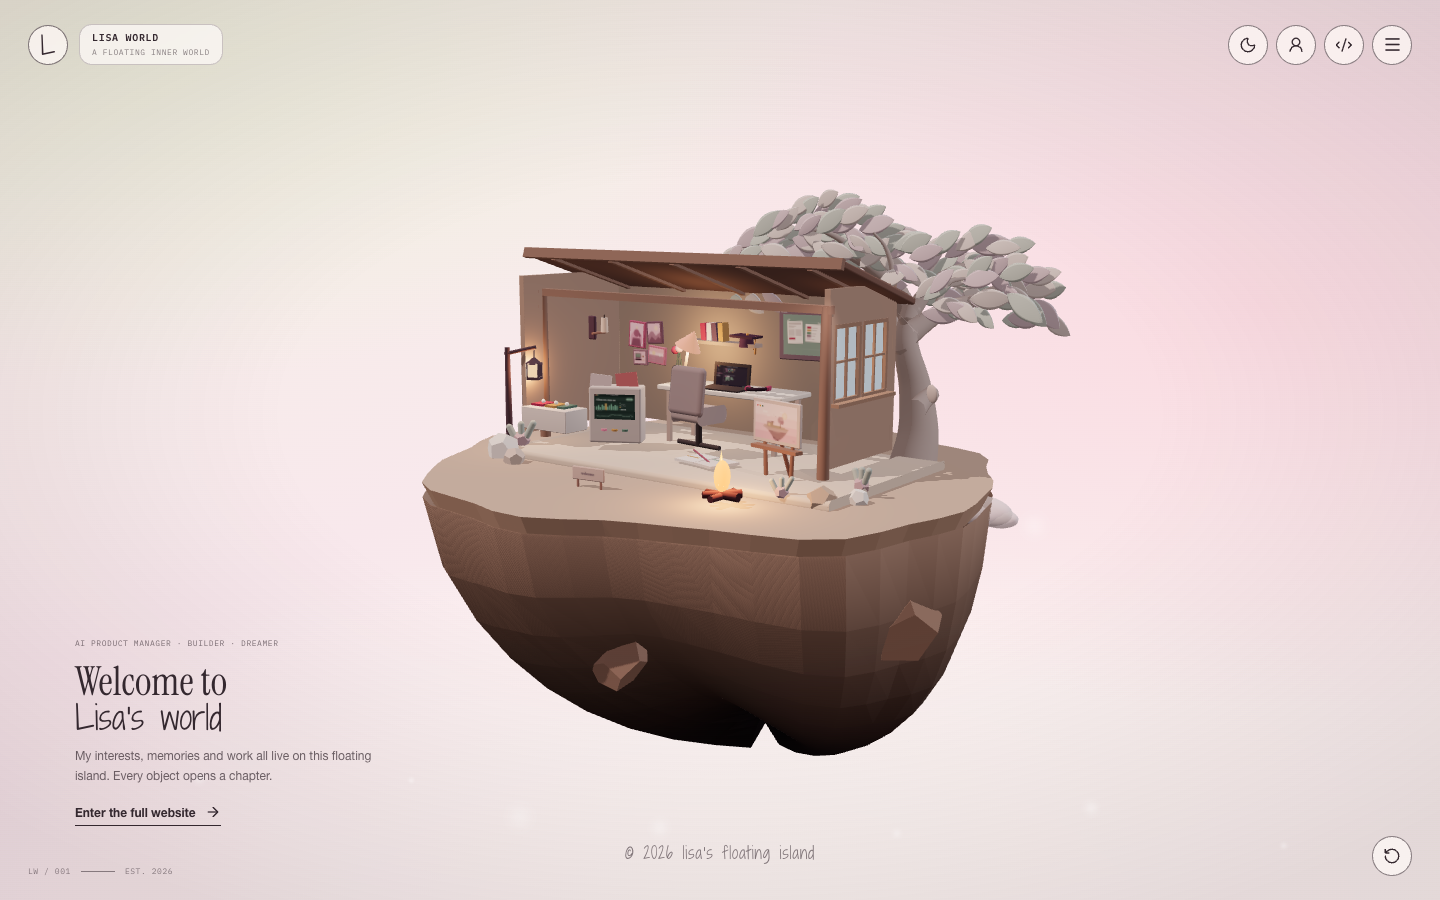
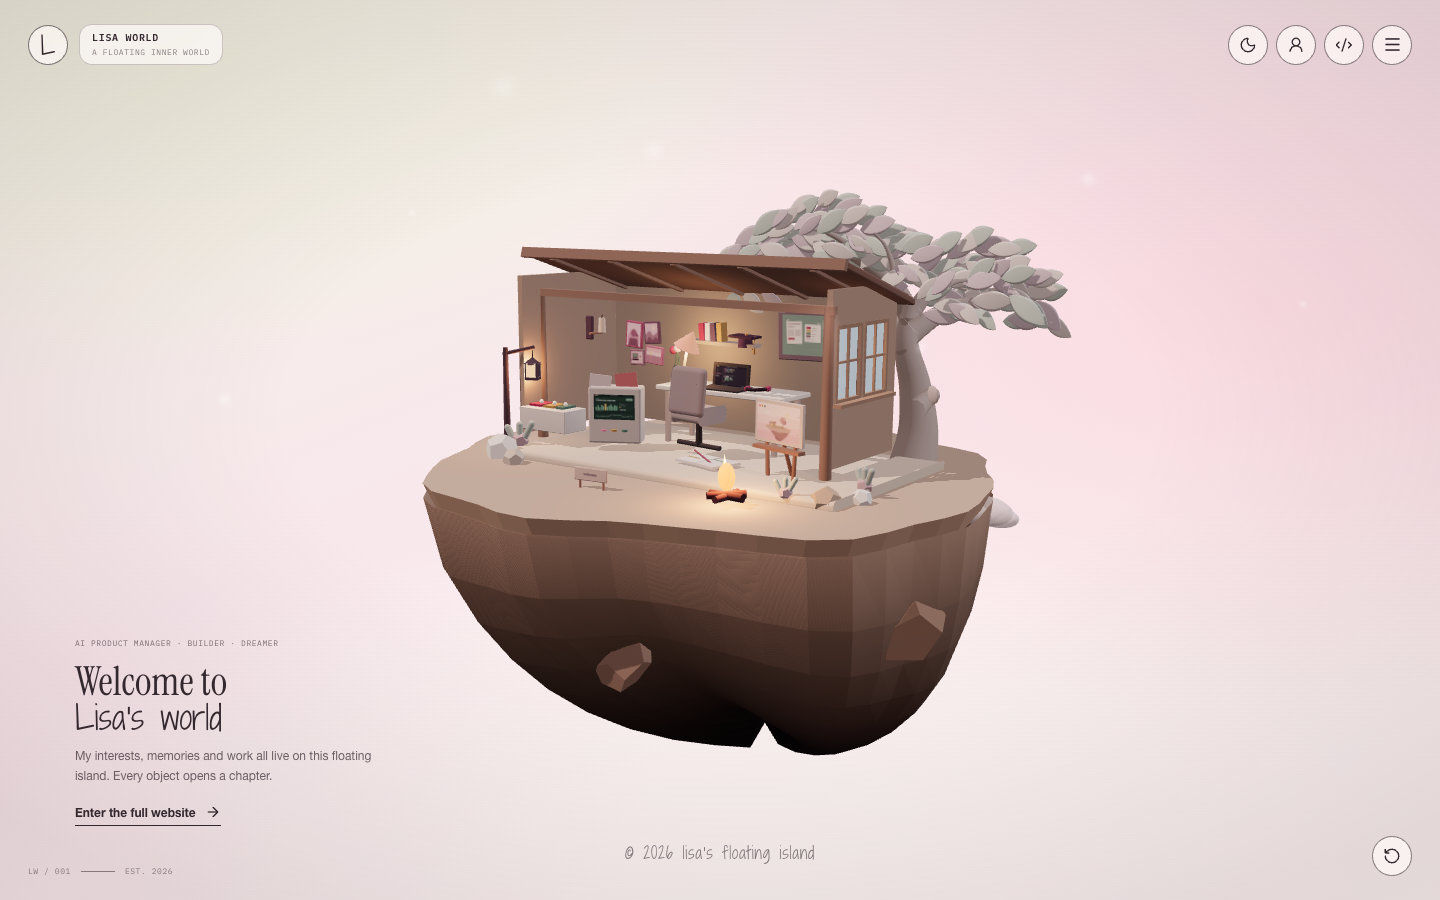
perf: stop paying six shadow passes for one lamp
The night theme cost 1.8x the day theme on the same machine, and measuring it
showed why: 8 weighted shadow passes against day's 2, 704 draw calls against
456, 518k drawn triangles a frame against 227k. Six of those eight passes came
from one word — castShadow on a point light, which renders the whole scene once
per cube face.

Deleting the shadow was tried first and rejected on the screenshots: the room
went flat, the chair and the sketchbook stopped touching the floor. So the lamp
is now two lights doing one job each — an unshadowed point light for the glow on
the walls and ceiling, and a single downward spot for the shadow. Night comes to
3 passes, 519 calls, 275k triangles, and the two night screenshots are hard to
tell apart.

The key light overhead was left alone on purpose. Removing its shadow saves one
more pass, but the same A/B showed the daylight interior flattening, and 456
draw calls was never the problem — the pathological case was the point light,
and it is fixed.

* __ISLAND_STATS__ now reports drawCalls, drawnTriangles, programs, textures,
  geometries and shadowPasses, the last weighted by kind: one for a directional
  or spot light, six for a point light. The suite asserts 4 / 620 / 340k per
  device per theme. Frame rate is deliberately not asserted — under software
  rasterisation it measures the harness, and the same build read 157ms and
  768ms depending on machine load.
* Control experiment: putting castShadow back on the lamp takes the scene to
[…]

diff --git a/src/scene/World.tsx b/src/scene/World.tsx
@@ -123,6 +123,7 @@ function SceneProbes() {
   const scene = useThree((state) => state.scene)
   const camera = useThree((state) => state.camera)
   const size = useThree((state) => state.size)
+  const gl = useThree((state) => state.gl)
   const theme = useWorldStore((state) => state.theme)
   const silhouette = useWorldStore((state) => state.silhouette)
 
@@ -339,9 +340,23 @@ function SceneProbes() {
       let lights = 0
       let screens = 0
       let artworks = 0
+      let shadowCasters = 0
 
       scene.traverse((object) => {
-        if ((object as Light).isLight) lights += 1
+        if ((object as Light).isLight) {
+          lights += 1
+          /*
+           * Shadow-casting lights are the expensive kind, and they are not
+           * expensive equally: a directional or spot light renders the scene once
+           * more per frame, and a point light renders it *six* times, once per
+           * cube face. Counted here because it is the one cost that can grow by a
+           * single prop nobody reads twice, and it does not show up in a mesh or
+           * triangle count at all.
+           */
+          if ((object as Light).castShadow) {
+            shadowCasters += (object as Light).type === 'PointLight' ? 6 : 1
+          }
+        }
         const mesh = object as Mesh
         if (!mesh.isMesh || !mesh.geometry) return
         meshes += 1
@@ -365,11 +380,28 @@ function SceneProbes() {
         artworks,
         theme,
         silhouette,
+        /*
+         * What the last frame actually cost, straight from the renderer.
+         *
+         * Mesh and triangle counts say what is *in* the scene; these say what is
+         * being *drawn*, which is a different number entirely once shadow maps,
+         * a contact-shadow pass and four particle systems are in play. Reported
+         * because a perf regression here is invisible in a screenshot and the
+         * frame rate a harness measures under software rasterisation is a fact
+         * about the harness, not the site — draw calls are the same number on
+         * every machine.
+         */
+        drawCalls: gl.info.render.calls,
+        drawnTriangles: gl.info.render.triangles,
+        programs: gl.info.programs?.length ?? 0,
+        textures: gl.info.memory.textures,
+        geometries: gl.info.memory.geometries,
+        shadowPasses: shadowCasters,
       }
     }, 450)
 
     return () => window.clearTimeout(timer)
-  }, [scene, theme, silhouette])
+  }, [scene, gl, theme, silhouette])
 
   return null
 }
@@ -1013,15 +1045,46 @@ export function World({
           />
         </>
       )}
+      {/*
+          The lamp above the desk, split into the part that lights the room and
+          the part that grounds the furniture.
+
+          It used to be one shadow-casting point light, which is the single most
+          expensive prop in the scene: a point light renders the whole scene once
+          per cube face, so that one word cost six extra full-scene passes and
+          took the night theme from 2 shadow passes to 8, 456 draw calls to 704,
+          and 227k drawn triangles a frame to 518k — 1.8x the frame time on the
+          same machine, for one lamp.
+
+          Removing the shadow outright was tried first and the room went flat:
+          the chair and the sketchbook stopped touching the floor. So the light
+          keeps its omnidirectional glow on the walls and ceiling and stops
+          casting, and a single downward spot does the shadow for one pass. Same
+          two jobs, a sixth of the cost.
+      */}
       {isNight && (
-        <pointLight
-          castShadow
-          position={[-1.1, 3.2, -0.75]}
-          intensity={18}
-          distance={7}
-          decay={2}
-          color="#ffc27d"
-        />
+        <>
+          <pointLight
+            position={[-1.1, 3.2, -0.75]}
+            intensity={17}
+            distance={7}
+            decay={2}
+            color="#ffc27d"
+          />
+          <spotLight
+            castShadow
+            position={[-1.1, 3.3, -0.75]}
+            angle={1.02}
+            penumbra={0.92}
+            intensity={9}
+            distance={7.5}
+            decay={2}
+            color="#ffc27d"
+            shadow-mapSize={[1024, 1024]}
+            shadow-camera-near={0.4}
+            shadow-camera-far={8}
+          />
+        </>
       )}
       {showParticles && (
         <Sparkles

diff --git a/src/scene/stats.ts b/src/scene/stats.ts
@@ -21,6 +21,30 @@ export type IslandStats = {
   theme: 'day' | 'night'
   /** Whether silhouette mode was flattening the scene when measured. */
   silhouette: boolean
+  /**
+   * Draw calls in the last rendered frame.
+   *
+   * The counts above describe what is in the scene; this describes what it costs
+   * to show it, which is a different number once shadow maps, a contact-shadow
+   * pass and four particle systems are involved. It is also the honest thing to
+   * assert: the frame rate a harness measures under software rasterisation is a
+   * fact about the harness, while a draw call is the same number everywhere.
+   */
+  drawCalls: number
+  /** Triangles actually submitted last frame, shadow and helper passes included. */
+  drawnTriangles: number
+  /** Compiled shader programs; each one is a compile stall the first time it runs. */
+  programs: number
+  /** Live GPU textures and geometries, as the renderer counts them. */
+  textures: number
+  geometries: number
+  /**
+   * Extra full-scene passes the shadow maps cost, weighted by kind: a directional
+   * or spot light is one, a point light is six — one per cube face. A single
+   * `castShadow` prop is the cheapest way to make a scene several times more
+   * expensive, and it changes no other number here.
+   */
+  shadowPasses: number
 }
 
 export type FocusProbe = {

diff --git a/qa/verify.py b/qa/verify.py
@@ -67,6 +67,23 @@ MIN_LABEL_HEIGHT = 16
 # both given a hit area the lowest score in the scene is the easel at 0.70.
 MIN_OBJECT_CORE = 0.6
 
+# What a frame is allowed to cost, in numbers that mean the same thing on every
+# machine. Frame rate here does not: under software rasterisation it measures the
+# harness, and the same build reads 157ms and 768ms depending on what else is
+# running.
+#
+# The night theme used to spend 8 full-scene shadow passes, 704 draw calls and
+# 518k drawn triangles a frame, against day's 2 / 456 / 227k — because one word,
+# `castShadow` on a point light, renders the whole scene once per cube face. Six
+# passes for one lamp. Splitting it into an unshadowed point light for the glow
+# and one downward spot for the shadow brought night to 3 / 519 / 275k with no
+# visible difference. These ceilings sit just above the measured numbers so that
+# adding another shadow-casting light, or a point light with a shadow, fails here
+# rather than on someone's phone.
+MAX_SHADOW_PASSES = 4
+MAX_DRAW_CALLS = 620
+MAX_DRAWN_TRIANGLES = 340000
+
 # Opening a chapter has to show the object it is about. Camera framing is
 # derived arithmetic, and arithmetic that reads correctly still parked the AI
 # console behind the cabin's end wall — every chapter view was a wall of timber.
@@ -271,6 +288,24 @@ def run_theme(page, label: str, viewport_width: int) -> dict | None:
             f"{label}: artwork painted",
             stats.get("artworks") == EXPECTED_ARTWORKS,
             f"{stats.get('artworks')} canvas-textured artworks",
+        )
+        # What the frame costs, asserted in hardware-independent units. A point
+        # light with a shadow is six full-scene passes and looks like one line of
+        # JSX; nothing else here would notice it.
+        check(
+            f"{label}: shadow passes stay affordable",
+            (stats.get("shadowPasses") or 0) <= MAX_SHADOW_PASSES,
+            f"{stats.get('shadowPasses')} weighted passes (a point light counts 6)",
+        )
+        check(
+            f"{label}: draw calls stay affordable",
+            (stats.get("drawCalls") or 0) <= MAX_DRAW_CALLS,
+            f"{stats.get('drawCalls')} draw calls, {stats.get('drawnTriangles')} triangles drawn",
+        )
+        check(
+            f"{label}: drawn triangles stay affordable",
+            (stats.get("drawnTriangles") or 0) <= MAX_DRAWN_TRIANGLES,
+            f"{stats.get('drawnTriangles')} triangles drawn against {stats.get('triangles')} in the scene",
         )
     return stats
 

diff --git a/README.md b/README.md
@@ -92,6 +92,18 @@ Live: <https://lisayinyy.github.io/floating_island/>
   it cannot leave, and the `about` close-up puts it flat against the cabin's
   brown back wall.
 
+- **The lamp lights the room; a spot does the shadow.** The night theme's desk
+  lamp used to be one shadow-casting point light, which is the most expensive
+  single prop in the scene: a point light renders the whole scene once per cube
+  face, so that one word took night from 2 shadow passes to 8, 456 draw calls to
+  704, and 227k drawn triangles a frame to 518k. Deleting the shadow was tried
+  first and the room went flat — the chair and the sketchbook stopped touching
+  the floor. So the light keeps its glow on the walls and stops casting, and a
+  single downward spot does the shadow for one pass: 3 / 519 / 275k, and the two
+  night screenshots are hard to tell apart. The key light overhead still casts,
+  and was deliberately left alone — the same test showed its shadow doing visible
+  work, and 456 draw calls in daylight was never the problem.
+
 ## Design language
 
 The visual direction is a study of [plantpot.studio](https://www.plantpot.studio)
@@ -265,6 +277,15 @@ with software WebGL and checks the failures that have actually happened here:
   mesh, triangle, light, painted-screen and painted-artwork counts, so a blank
   laptop pane or a missing window light fails a check rather than a screenshot
   review.
+- **what a frame costs, in units that mean the same thing on every machine.** The
+  same stats object reports draw calls, triangles actually drawn, and shadow
+  passes weighted by kind — a directional or spot light is one extra full-scene
+  pass, a point light is six, one per cube face. Frame rate is deliberately not
+  asserted: under software rasterisation it measures the harness, and the same
+  build reads 157ms and 768ms depending on what else the machine is doing. The
+  ceilings are 4 passes, 620 draw calls and 340k drawn triangles, which sit just
+  above the real numbers; putting `castShadow` back on the lamp takes it to 9 /
+  777 / 574k and all three go red.
 - theme persistence, a dark OS preference, and keyboard-only chapter access
 - **anything arriving from a third party.** Every byte has to come from this
   page's own origin; an `@import` that reintroduces a font CDN is one line long
@@ -284,7 +305,7 @@ with software WebGL and checks the failures that have actually happened here:
   silently and neither appears in any screenshot of the page — the favicon
   shipped for a while was a scaffold's purple lightning bolt.
 
-180 checks at the time of writing, across desktop and phone, day and night, plus
+192 checks at the time of writing, across desktop and phone, day and night, plus
 a reduced-motion pass and two real-pointer passes (mouse and touch). The camera checks wait for the tween to settle rather than
 sleeping a fixed 4.2s — under software WebGL a 1.05s tween can take several
 wall-clock seconds, and a mid-flight probe once reported the easel covering 117%
